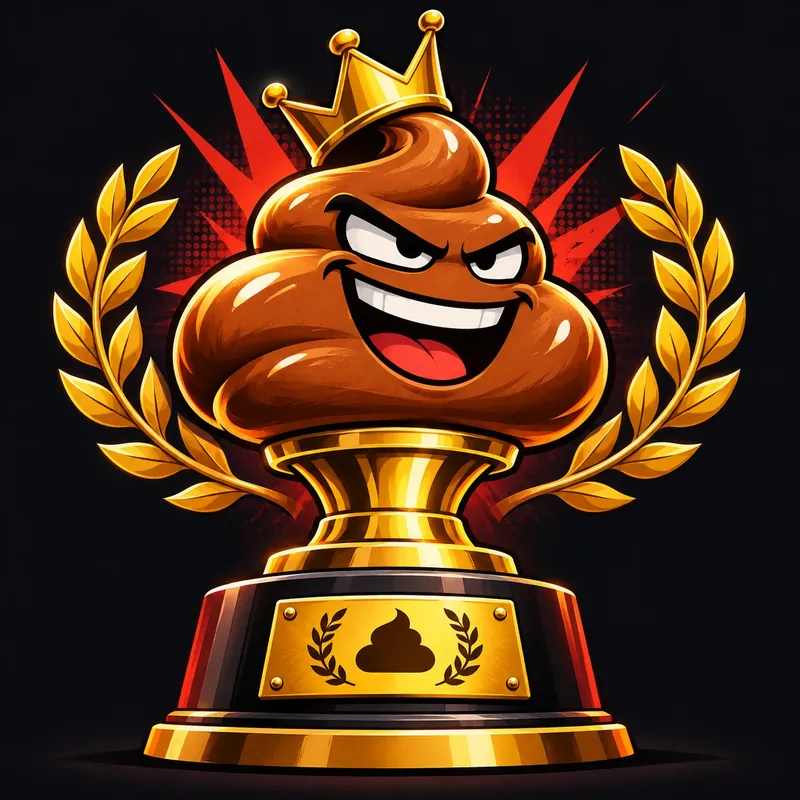
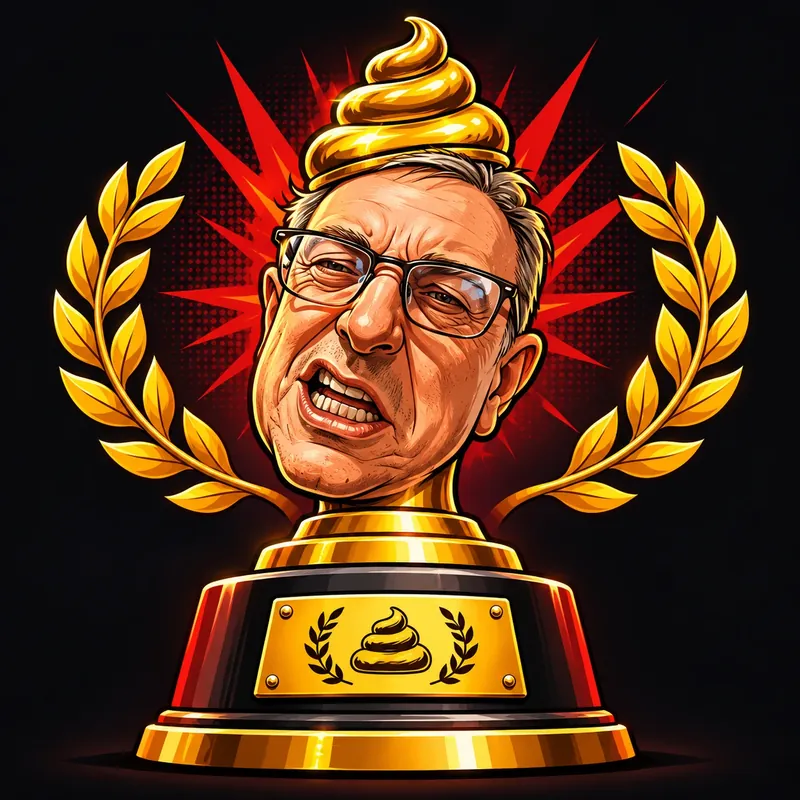
Papo Reto: novo troféu do Falou Merda
Troca a ilustração do troféu (WebP 800×800, 85 KB) e atualiza o texto
alternativo.

Claude-Session: https://claude.ai/code/session_01W1pgBGMPMKdA9gTW2KLxm7

diff --git a/src/papo-reto/config/rankings.ts b/src/papo-reto/config/rankings.ts
@@ -37,7 +37,8 @@ export const RANKINGS: Record<RankingSlug, RankingCopy> = {
     description:
       "Tem opinião ruim, tem opinião péssima e tem aquelas que deveriam ser proibidas pelo Estatuto do Torcedor. Vote em quem mais falou besteira com a confiança de quem sabe tudo.",
     cta: "Votar nessa figura",
-    illustrationAlt: "Troféu Falou Merda: um cocô sorridente, de coroa, no alto de um troféu dourado com louros",
+    illustrationAlt:
+      "Troféu Falou Merda: troféu dourado com louros e a cabeça caricata de um homem de óculos fazendo careta, com um cocô dourado no alto",
     defaultPeriod: "weekly",
     badges: { top: "Líder da vergonha", bottom: "Escapou (por enquanto)" },
     expressions: {
